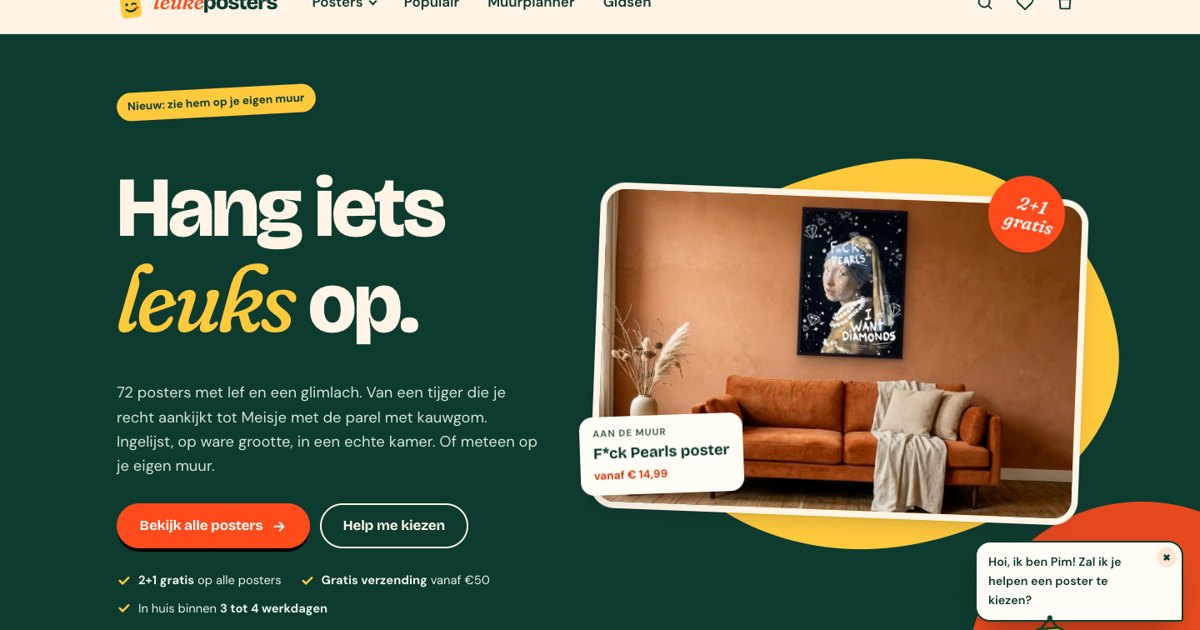
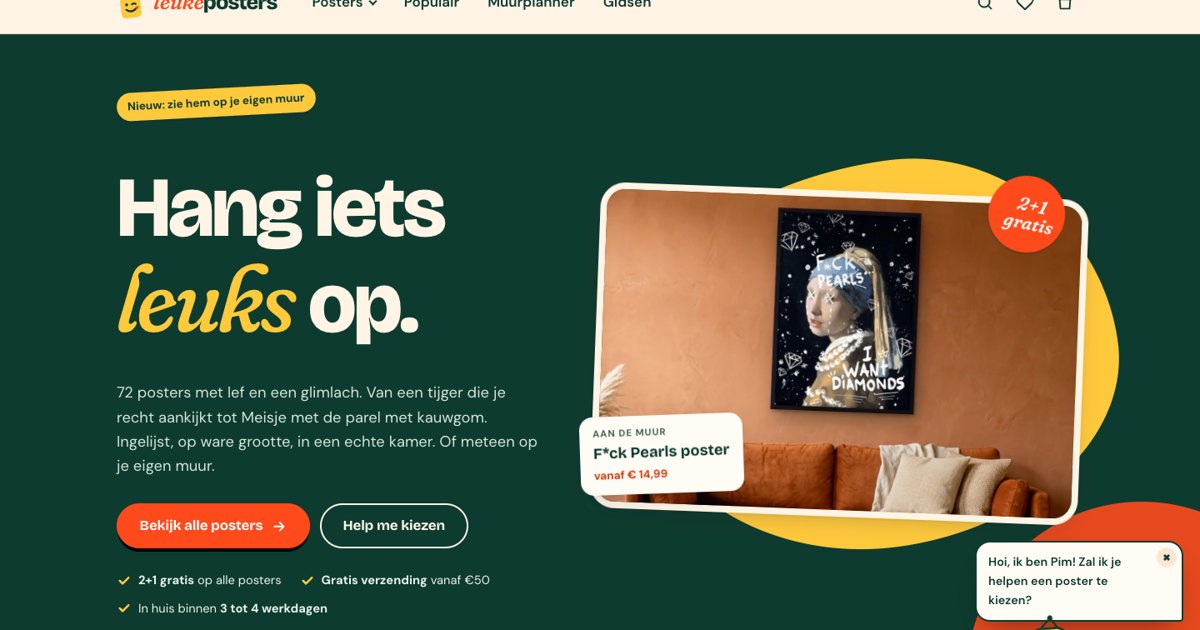
Concepten nieuwe website leukeposters.nl

Changed region(s): [[0.4933, 0.3016, 0.8942, 0.8444]]

diff --git a/abstracte-posters/index.html b/abstracte-posters/index.html
@@ -55,7 +55,7 @@
   <ul class="lijstkop__usps"><li>Vanaf € 14,99</li><li>2+1 gratis</li><li>Ingelijst bekijken op je eigen muur</li></ul></div><div class="lijstkop__beeld"><img class="" src="../img/ingelijst/abstract-portret-poster-woonkamer-640.webp" srcset="../img/ingelijst/abstract-portret-poster-woonkamer-640.webp 640w, ../img/ingelijst/abstract-portret-poster-woonkamer-1264.webp 1264w" sizes="(min-width: 900px) 40vw, 100vw" width="1264" height="848" alt="Abstract portret no. 2 poster in de woonkamer" loading="eager" fetchpriority=high decoding="async"><a class="lijstkop__poster" href="../abstracte-posters/abstract-portret-no-2-poster/index.html" aria-label="Abstract portret poster"><img class="lijst--zwart" src="../img/poster/abstract-portret-no-2-poster-480.webp" srcset="../img/poster/abstract-portret-no-2-poster-480.webp 480w, ../img/poster/abstract-portret-no-2-poster-960.webp 960w" sizes="180px" width="1080" height="1540" alt="Schilderij van een abstract portret met wervelende penseelstreken in blauw en beige tinten." loading="eager" decoding="async"></a></div>
 </div><span class="lijstkop__spook" aria-hidden="true">posters</span>
 <svg class="lijstkop__golf" viewBox="0 0 1440 60" preserveAspectRatio="none" aria-hidden="true"><path d="M0 60V28c120-20 240-26 360-14s240 30 360 22 240-34 360-36 240 12 360 22v38z" fill="var(--papier)"/></svg></section>
-<section class="sectie sectie--krap"><div class="wrap">
+<section class="sectie sectie--krap sectie--speels"><div class="speels speels--links speels--hanger" aria-hidden="true"><svg viewBox="0 0 80 110"><circle cx="40" cy="8" r="5" fill="var(--inkt)"/><path d="M20 34 40 8l20 26" fill="none" stroke="var(--inkt)" stroke-width="2.5" stroke-linejoin="round"/><g class="speels__schommel"><rect x="12" y="30" width="56" height="72" rx="10" fill="var(--tomaat)"/><circle cx="30" cy="58" r="4" fill="var(--papier)"/><path d="M45 58q5-4 10 0" fill="none" stroke="var(--papier)" stroke-width="3.5" stroke-linecap="round"/><path d="M28 74q12 10 24 0" fill="none" stroke="var(--papier)" stroke-width="3.5" stroke-linecap="round"/></g></svg></div><div class="speels speels--rechts speels--veeg" aria-hidden="true"><svg viewBox="0 0 420 120"><path d="M18 78C70 30 170 18 260 34s130 44 150 22" fill="none" stroke="var(--blush)" stroke-width="38" stroke-linecap="round"/><path d="M40 92c60-30 150-40 230-26" fill="none" stroke="var(--blush)" stroke-width="6" stroke-linecap="round" opacity=".6"/><path d="M60 40c50-14 110-16 170-6" fill="none" stroke="var(--blush)" stroke-width="4" stroke-linecap="round" opacity=".5"/></svg></div><div class="wrap">
   <div class="filter" data-filterbalk>
   <div class="filter__top">
     <label class="zoekveld"><span class="sr">Zoek in posters</span><svg viewBox="0 0 24 24" aria-hidden="true"><circle cx="11" cy="11" r="7"/><path d="m20 20-3.5-3.5"/></svg><input type="search" placeholder="Zoek op tijger, koffie, Bauhaus..." data-zoek></label>

diff --git a/populaire-posters/index.html b/populaire-posters/index.html
@@ -55,7 +55,7 @@
   <ul class="lijstkop__usps"><li>Vanaf € 14,99</li><li>2+1 gratis</li><li>Ingelijst bekijken op je eigen muur</li></ul></div><div class="lijstkop__beeld"><img class="" src="../img/ingelijst/tijger-portret-poster-woonkamer-640.webp" srcset="../img/ingelijst/tijger-portret-poster-woonkamer-640.webp 640w, ../img/ingelijst/tijger-portret-poster-woonkamer-1264.webp 1264w" sizes="(min-width: 900px) 40vw, 100vw" width="1264" height="848" alt="Tijger portret poster in de woonkamer" loading="eager" fetchpriority=high decoding="async"><a class="lijstkop__poster" href="../luxe-posters/delfst-blauwe-schedel-poster/index.html" aria-label="Delfts blauwe schedel poster"><img class="lijst--eiken" src="../img/poster/delfst-blauwe-schedel-poster-480.webp" srcset="../img/poster/delfst-blauwe-schedel-poster-480.webp 480w, ../img/poster/delfst-blauwe-schedel-poster-960.webp 960w" sizes="180px" width="1080" height="1540" alt="Witte porseleinen schedel met Delfts blauwe bloemen en gouden details op zwarte achtergrond" loading="eager" decoding="async"></a></div>
 </div><span class="lijstkop__spook" aria-hidden="true">posters</span>
 <svg class="lijstkop__golf" viewBox="0 0 1440 60" preserveAspectRatio="none" aria-hidden="true"><path d="M0 60V28c120-20 240-26 360-14s240 30 360 22 240-34 360-36 240 12 360 22v38z" fill="var(--papier)"/></svg></section>
-<section class="sectie sectie--krap"><div class="wrap">
+<section class="sectie sectie--krap sectie--speels"><div class="speels speels--links speels--hanger" aria-hidden="true"><svg viewBox="0 0 80 110"><circle cx="40" cy="8" r="5" fill="var(--inkt)"/><path d="M20 34 40 8l20 26" fill="none" stroke="var(--inkt)" stroke-width="2.5" stroke-linejoin="round"/><g class="speels__schommel"><rect x="12" y="30" width="56" height="72" rx="10" fill="var(--tomaat)"/><circle cx="30" cy="58" r="4" fill="var(--papier)"/><path d="M45 58q5-4 10 0" fill="none" stroke="var(--papier)" stroke-width="3.5" stroke-linecap="round"/><path d="M28 74q12 10 24 0" fill="none" stroke="var(--papier)" stroke-width="3.5" stroke-linecap="round"/></g></svg></div><div class="speels speels--rechts speels--veeg" aria-hidden="true"><svg viewBox="0 0 420 120"><path d="M18 78C70 30 170 18 260 34s130 44 150 22" fill="none" stroke="var(--blush)" stroke-width="38" stroke-linecap="round"/><path d="M40 92c60-30 150-40 230-26" fill="none" stroke="var(--blush)" stroke-width="6" stroke-linecap="round" opacity=".6"/><path d="M60 40c50-14 110-16 170-6" fill="none" stroke="var(--blush)" stroke-width="4" stroke-linecap="round" opacity=".5"/></svg></div><div class="wrap">
   <div class="filter" data-filterbalk>
   <div class="filter__top">
     <label class="zoekveld"><span class="sr">Zoek in posters</span><svg viewBox="0 0 24 24" aria-hidden="true"><circle cx="11" cy="11" r="7"/><path d="m20 20-3.5-3.5"/></svg><input type="search" placeholder="Zoek op tijger, koffie, Bauhaus..." data-zoek></label>

diff --git a/kunst-posters/index.html b/kunst-posters/index.html
@@ -55,7 +55,7 @@
   <ul class="lijstkop__usps"><li>Vanaf € 14,99</li><li>2+1 gratis</li><li>Ingelijst bekijken op je eigen muur</li></ul></div><div class="lijstkop__beeld"><img class="" src="../img/ingelijst/attuned-poster-slaapkamer-640.webp" srcset="../img/ingelijst/attuned-poster-slaapkamer-640.webp 640w, ../img/ingelijst/attuned-poster-slaapkamer-1264.webp 1264w" sizes="(min-width: 900px) 40vw, 100vw" width="1264" height="848" alt="Attuned kunst poster boven het bed" loading="eager" fetchpriority=high decoding="async"><a class="lijstkop__poster" href="../abstracte-posters/bauhaus-1919-1933-poster/index.html" aria-label="Bauhaus 1919 poster"><img class="lijst--zwart" src="../img/poster/bauhaus-1919-1933-poster-480.webp" srcset="../img/poster/bauhaus-1919-1933-poster-480.webp 480w, ../img/poster/bauhaus-1919-1933-poster-960.webp 960w" sizes="180px" width="1080" height="1540" alt="Bauhaus poster met geometrische figuren in geel, roze en blauw op een lichte achtergrond" loading="eager" decoding="async"></a></div>
 </div><span class="lijstkop__spook" aria-hidden="true">posters</span>
 <svg class="lijstkop__golf" viewBox="0 0 1440 60" preserveAspectRatio="none" aria-hidden="true"><path d="M0 60V28c120-20 240-26 360-14s240 30 360 22 240-34 360-36 240 12 360 22v38z" fill="var(--papier)"/></svg></section>
-<section class="sectie sectie--krap"><div class="wrap">
+<section class="sectie sectie--krap sectie--speels"><div class="speels speels--links speels--hanger" aria-hidden="true"><svg viewBox="0 0 80 110"><circle cx="40" cy="8" r="5" fill="var(--inkt)"/><path d="M20 34 40 8l20 26" fill="none" stroke="var(--inkt)" stroke-width="2.5" stroke-linejoin="round"/><g class="speels__schommel"><rect x="12" y="30" width="56" height="72" rx="10" fill="var(--tomaat)"/><circle cx="30" cy="58" r="4" fill="var(--papier)"/><path d="M45 58q5-4 10 0" fill="none" stroke="var(--papier)" stroke-width="3.5" stroke-linecap="round"/><path d="M28 74q12 10 24 0" fill="none" stroke="var(--papier)" stroke-width="3.5" stroke-linecap="round"/></g></svg></div><div class="speels speels--rechts speels--veeg" aria-hidden="true"><svg viewBox="0 0 420 120"><path d="M18 78C70 30 170 18 260 34s130 44 150 22" fill="none" stroke="var(--blush)" stroke-width="38" stroke-linecap="round"/><path d="M40 92c60-30 150-40 230-26" fill="none" stroke="var(--blush)" stroke-width="6" stroke-linecap="round" opacity=".6"/><path d="M60 40c50-14 110-16 170-6" fill="none" stroke="var(--blush)" stroke-width="4" stroke-linecap="round" opacity=".5"/></svg></div><div class="wrap">
   <div class="filter" data-filterbalk>
   <div class="filter__top">
     <label class="zoekveld"><span class="sr">Zoek in posters</span><svg viewBox="0 0 24 24" aria-hidden="true"><circle cx="11" cy="11" r="7"/><path d="m20 20-3.5-3.5"/></svg><input type="search" placeholder="Zoek op tijger, koffie, Bauhaus..." data-zoek></label>

diff --git a/posters-werkplek/index.html b/posters-werkplek/index.html
@@ -55,7 +55,7 @@
   <ul class="lijstkop__usps"><li>Vanaf € 14,99</li><li>2+1 gratis</li><li>Ingelijst bekijken op je eigen muur</li></ul></div><div class="lijstkop__beeld"><img class="" src="../img/ingelijst/tijger-portret-poster-werkplek-640.webp" srcset="../img/ingelijst/tijger-portret-poster-werkplek-640.webp 640w" sizes="(min-width: 900px) 40vw, 100vw" width="1264" height="848" alt="Tijger portret poster boven het bureau" loading="eager" fetchpriority=high decoding="async"><a class="lijstkop__poster" href="../luxe-posters/delfst-blauwe-schedel-poster/index.html" aria-label="Delfts blauwe schedel poster"><img class="lijst--eiken" src="../img/poster/delfst-blauwe-schedel-poster-480.webp" srcset="../img/poster/delfst-blauwe-schedel-poster-480.webp 480w, ../img/poster/delfst-blauwe-schedel-poster-960.webp 960w" sizes="180px" width="1080" height="1540" alt="Witte porseleinen schedel met Delfts blauwe bloemen en gouden details op zwarte achtergrond" loading="eager" decoding="async"></a></div>
 </div><span class="lijstkop__spook" aria-hidden="true">werkplek</span>
 <svg class="lijstkop__golf" viewBox="0 0 1440 60" preserveAspectRatio="none" aria-hidden="true"><path d="M0 60V28c120-20 240-26 360-14s240 30 360 22 240-34 360-36 240 12 360 22v38z" fill="var(--papier)"/></svg></section>
-<section class="sectie sectie--krap"><div class="wrap">
+<section class="sectie sectie--krap sectie--speels"><div class="speels speels--links speels--hanger" aria-hidden="true"><svg viewBox="0 0 80 110"><circle cx="40" cy="8" r="5" fill="var(--inkt)"/><path d="M20 34 40 8l20 26" fill="none" stroke="var(--inkt)" stroke-width="2.5" stroke-linejoin="round"/><g class="speels__schommel"><rect x="12" y="30" width="56" height="72" rx="10" fill="var(--tomaat)"/><circle cx="30" cy="58" r="4" fill="var(--papier)"/><path d="M45 58q5-4 10 0" fill="none" stroke="var(--papier)" stroke-width="3.5" stroke-linecap="round"/><path d="M28 74q12 10 24 0" fill="none" stroke="var(--papier)" stroke-width="3.5" stroke-linecap="round"/></g></svg></div><div class="speels speels--rechts speels--veeg" aria-hidden="true"><svg viewBox="0 0 420 120"><path d="M18 78C70 30 170 18 260 34s130 44 150 22" fill="none" stroke="var(--blush)" stroke-width="38" stroke-linecap="round"/><path d="M40 92c60-30 150-40 230-26" fill="none" stroke="var(--blush)" stroke-width="6" stroke-linecap="round" opacity=".6"/><path d="M60 40c50-14 110-16 170-6" fill="none" stroke="var(--blush)" stroke-width="4" stroke-linecap="round" opacity=".5"/></svg></div><div class="wrap">
   <div class="filter" data-filterbalk>
   <div class="filter__top">
     <label class="zoekveld"><span class="sr">Zoek in posters</span><svg viewBox="0 0 24 24" aria-hidden="true"><circle cx="11" cy="11" r="7"/><path d="m20 20-3.5-3.5"/></svg><input type="search" placeholder="Zoek op tijger, koffie, Bauhaus..." data-zoek></label>

diff --git a/posters-kinderkamer/index.html b/posters-kinderkamer/index.html
@@ -55,7 +55,7 @@
   <ul class="lijstkop__usps"><li>Vanaf € 14,99</li><li>2+1 gratis</li><li>Ingelijst bekijken op je eigen muur</li></ul></div><div class="lijstkop__beeld"><img class="" src="../img/ingelijst/alfabet-a-poster-kinderkamer-640.webp" srcset="../img/ingelijst/alfabet-a-poster-kinderkamer-640.webp 640w, ../img/ingelijst/alfabet-a-poster-kinderkamer-1264.webp 1264w" sizes="(min-width: 900px) 40vw, 100vw" width="1264" height="848" alt="Alfabet A aap poster in de kinderkamer" loading="eager" fetchpriority=high decoding="async"><a class="lijstkop__poster" href="../kinderposters/alfabet-d-poster/index.html" aria-label="Alfabet D dino poster"><img class="lijst--eiken" src="../img/poster/alfabet-d-poster-480.webp" srcset="../img/poster/alfabet-d-poster-480.webp 480w, ../img/poster/alfabet-d-poster-960.webp 960w" sizes="180px" width="1080" height="1540" alt="Illustratie van de letter D in poederroze met een kleine groene dinosaurus." loading="eager" decoding="async"></a></div>
 </div><span class="lijstkop__spook" aria-hidden="true">kinderkamer</span>
 <svg class="lijstkop__golf" viewBox="0 0 1440 60" preserveAspectRatio="none" aria-hidden="true"><path d="M0 60V28c120-20 240-26 360-14s240 30 360 22 240-34 360-36 240 12 360 22v38z" fill="var(--papier)"/></svg></section>
-<section class="sectie sectie--krap"><div class="wrap">
+<section class="sectie sectie--krap sectie--speels"><div class="speels speels--links speels--hanger" aria-hidden="true"><svg viewBox="0 0 80 110"><circle cx="40" cy="8" r="5" fill="var(--inkt)"/><path d="M20 34 40 8l20 26" fill="none" stroke="var(--inkt)" stroke-width="2.5" stroke-linejoin="round"/><g class="speels__schommel"><rect x="12" y="30" width="56" height="72" rx="10" fill="var(--tomaat)"/><circle cx="30" cy="58" r="4" fill="var(--papier)"/><path d="M45 58q5-4 10 0" fill="none" stroke="var(--papier)" stroke-width="3.5" stroke-linecap="round"/><path d="M28 74q12 10 24 0" fill="none" stroke="var(--papier)" stroke-width="3.5" stroke-linecap="round"/></g></svg></div><div class="speels speels--rechts speels--veeg" aria-hidden="true"><svg viewBox="0 0 420 120"><path d="M18 78C70 30 170 18 260 34s130 44 150 22" fill="none" stroke="var(--blush)" stroke-width="38" stroke-linecap="round"/><path d="M40 92c60-30 150-40 230-26" fill="none" stroke="var(--blush)" stroke-width="6" stroke-linecap="round" opacity=".6"/><path d="M60 40c50-14 110-16 170-6" fill="none" stroke="var(--blush)" stroke-width="4" stroke-linecap="round" opacity=".5"/></svg></div><div class="wrap">
   <div class="filter" data-filterbalk>
   <div class="filter__top">
     <label class="zoekveld"><span class="sr">Zoek in posters</span><svg viewBox="0 0 24 24" aria-hidden="true"><circle cx="11" cy="11" r="7"/><path d="m20 20-3.5-3.5"/></svg><input type="search" placeholder="Zoek op tijger, koffie, Bauhaus..." data-zoek></label>

diff --git a/posters-hal/index.html b/posters-hal/index.html
@@ -55,7 +55,7 @@
   <ul class="lijstkop__usps"><li>Vanaf € 14,99</li><li>2+1 gratis</li><li>Ingelijst bekijken op je eigen muur</li></ul></div><div class="lijstkop__beeld"><img class="" src="../img/ingelijst/fck-pearls-poster-hal-640.webp" srcset="../img/ingelijst/fck-pearls-poster-hal-640.webp 640w" sizes="(min-width: 900px) 40vw, 100vw" width="1264" height="848" alt="F*ck Pearls poster in de hal" loading="eager" fetchpriority=high decoding="async"><a class="lijstkop__poster" href="../reproductie-poster/meisje-met-de-parel-bubblegum-poster/index.html" aria-label="Meisje met kauwgom poster"><img class="lijst--eiken" src="../img/poster/meisje-met-de-parel-bubblegum-poster-480.webp" srcset="../img/poster/meisje-met-de-parel-bubblegum-poster-480.webp 480w, ../img/poster/meisje-met-de-parel-bubblegum-poster-960.webp 960w" sizes="180px" width="1080" height="1540" alt="Schilderij Meisje met de parel van Vermeer die een roze kauwgombel blaast." loading="eager" decoding="async"></a></div>
 </div><span class="lijstkop__spook" aria-hidden="true">hal</span>
 <svg class="lijstkop__golf" viewBox="0 0 1440 60" preserveAspectRatio="none" aria-hidden="true"><path d="M0 60V28c120-20 240-26 360-14s240 30 360 22 240-34 360-36 240 12 360 22v38z" fill="var(--papier)"/></svg></section>
-<section class="sectie sectie--krap"><div class="wrap">
+<section class="sectie sectie--krap sectie--speels"><div class="speels speels--links speels--hanger" aria-hidden="true"><svg viewBox="0 0 80 110"><circle cx="40" cy="8" r="5" fill="var(--inkt)"/><path d="M20 34 40 8l20 26" fill="none" stroke="var(--inkt)" stroke-width="2.5" stroke-linejoin="round"/><g class="speels__schommel"><rect x="12" y="30" width="56" height="72" rx="10" fill="var(--tomaat)"/><circle cx="30" cy="58" r="4" fill="var(--papier)"/><path d="M45 58q5-4 10 0" fill="none" stroke="var(--papier)" stroke-width="3.5" stroke-linecap="round"/><path d="M28 74q12 10 24 0" fill="none" stroke="var(--papier)" stroke-width="3.5" stroke-linecap="round"/></g></svg></div><div class="speels speels--rechts speels--veeg" aria-hidden="true"><svg viewBox="0 0 420 120"><path d="M18 78C70 30 170 18 260 34s130 44 150 22" fill="none" stroke="var(--blush)" stroke-width="38" stroke-linecap="round"/><path d="M40 92c60-30 150-40 230-26" fill="none" stroke="var(--blush)" stroke-width="6" stroke-linecap="round" opacity=".6"/><path d="M60 40c50-14 110-16 170-6" fill="none" stroke="var(--blush)" stroke-width="4" stroke-linecap="round" opacity=".5"/></svg></div><div class="wrap">
   <div class="filter" data-filterbalk>
   <div class="filter__top">
     <label class="zoekveld"><span class="sr">Zoek in posters</span><svg viewBox="0 0 24 24" aria-hidden="true"><circle cx="11" cy="11" r="7"/><path d="m20 20-3.5-3.5"/></svg><input type="search" placeholder="Zoek op tijger, koffie, Bauhaus..." data-zoek></label>

diff --git a/posters-slaapkamer/index.html b/posters-slaapkamer/index.html
@@ -55,7 +55,7 @@
   <ul class="lijstkop__usps"><li>Vanaf € 14,99</li><li>2+1 gratis</li><li>Ingelijst bekijken op je eigen muur</li></ul></div><div class="lijstkop__beeld"><img class="" src="../img/ingelijst/beautiful-girl-poster-slaapkamer-640.webp" srcset="../img/ingelijst/beautiful-girl-poster-slaapkamer-640.webp 640w" sizes="(min-width: 900px) 40vw, 100vw" width="1264" height="848" alt="Beautiful girl stilleven poster boven het bed" loading="eager" fetchpriority=high decoding="async"><a class="lijstkop__poster" href="../dieren-posters/paradijs-vogel-poster/index.html" aria-label="Paradijsvogel poster"><img class="lijst--eiken" src="../img/poster/paradijs-vogel-poster-480.webp" srcset="../img/poster/paradijs-vogel-poster-480.webp 480w, ../img/poster/paradijs-vogel-poster-960.webp 960w" sizes="180px" width="1080" height="1540" alt="Gedetailleerd portret van een paradijsvogel met feloranje kuif tegen een zwarte achtergrond" loading="eager" decoding="async"></a></div>
 </div><span class="lijstkop__spook" aria-hidden="true">slaapkamer</span>
 <svg class="lijstkop__golf" viewBox="0 0 1440 60" preserveAspectRatio="none" aria-hidden="true"><path d="M0 60V28c120-20 240-26 360-14s240 30 360 22 240-34 360-36 240 12 360 22v38z" fill="var(--papier)"/></svg></section>
-<section class="sectie sectie--krap"><div class="wrap">
+<section class="sectie sectie--krap sectie--speels"><div class="speels speels--links speels--hanger" aria-hidden="true"><svg viewBox="0 0 80 110"><circle cx="40" cy="8" r="5" fill="var(--inkt)"/><path d="M20 34 40 8l20 26" fill="none" stroke="var(--inkt)" stroke-width="2.5" stroke-linejoin="round"/><g class="speels__schommel"><rect x="12" y="30" width="56" height="72" rx="10" fill="var(--tomaat)"/><circle cx="30" cy="58" r="4" fill="var(--papier)"/><path d="M45 58q5-4 10 0" fill="none" stroke="var(--papier)" stroke-width="3.5" stroke-linecap="round"/><path d="M28 74q12 10 24 0" fill="none" stroke="var(--papier)" stroke-width="3.5" stroke-linecap="round"/></g></svg></div><div class="speels speels--rechts speels--veeg" aria-hidden="true"><svg viewBox="0 0 420 120"><path d="M18 78C70 30 170 18 260 34s130 44 150 22" fill="none" stroke="var(--blush)" stroke-width="38" stroke-linecap="round"/><path d="M40 92c60-30 150-40 230-26" fill="none" stroke="var(--blush)" stroke-width="6" stroke-linecap="round" opacity=".6"/><path d="M60 40c50-14 110-16 170-6" fill="none" stroke="var(--blush)" stroke-width="4" stroke-linecap="round" opacity=".5"/></svg></div><div class="wrap">
   <div class="filter" data-filterbalk>
   <div class="filter__top">
     <label class="zoekveld"><span class="sr">Zoek in posters</span><svg viewBox="0 0 24 24" aria-hidden="true"><circle cx="11" cy="11" r="7"/><path d="m20 20-3.5-3.5"/></svg><input type="search" placeholder="Zoek op tijger, koffie, Bauhaus..." data-zoek></label>

diff --git a/posters-woonkamer/index.html b/posters-woonkamer/index.html
@@ -55,7 +55,7 @@
   <ul class="lijstkop__usps"><li>Vanaf € 14,99</li><li>2+1 gratis</li><li>Ingelijst bekijken op je eigen muur</li></ul></div><div class="lijstkop__beeld"><img class="" src="../img/ingelijst/tijger-portret-poster-woonkamer-640.webp" srcset="../img/ingelijst/tijger-portret-poster-woonkamer-640.webp 640w, ../img/ingelijst/tijger-portret-poster-woonkamer-1264.webp 1264w" sizes="(min-width: 900px) 40vw, 100vw" width="1264" height="848" alt="Tijger portret poster in de woonkamer" loading="eager" fetchpriority=high decoding="async"><a class="lijstkop__poster" href="../luxe-posters/delfst-blauwe-schedel-poster/index.html" aria-label="Delfts blauwe schedel poster"><img class="lijst--eiken" src="../img/poster/delfst-blauwe-schedel-poster-480.webp" srcset="../img/poster/delfst-blauwe-schedel-poster-480.webp 480w, ../img/poster/delfst-blauwe-schedel-poster-960.webp 960w" sizes="180px" width="1080" height="1540" alt="Witte porseleinen schedel met Delfts blauwe bloemen en gouden details op zwarte achtergrond" loading="eager" decoding="async"></a></div>
 </div><span class="lijstkop__spook" aria-hidden="true">woonkamer</span>
 <svg class="lijstkop__golf" viewBox="0 0 1440 60" preserveAspectRatio="none" aria-hidden="true"><path d="M0 60V28c120-20 240-26 360-14s240 30 360 22 240-34 360-36 240 12 360 22v38z" fill="var(--papier)"/></svg></section>
-<section class="sectie sectie--krap"><div class="wrap">
+<section class="sectie sectie--krap sectie--speels"><div class="speels speels--links speels--hanger" aria-hidden="true"><svg viewBox="0 0 80 110"><circle cx="40" cy="8" r="5" fill="var(--inkt)"/><path d="M20 34 40 8l20 26" fill="none" stroke="var(--inkt)" stroke-width="2.5" stroke-linejoin="round"/><g class="speels__schommel"><rect x="12" y="30" width="56" height="72" rx="10" fill="var(--tomaat)"/><circle cx="30" cy="58" r="4" fill="var(--papier)"/><path d="M45 58q5-4 10 0" fill="none" stroke="var(--papier)" stroke-width="3.5" stroke-linecap="round"/><path d="M28 74q12 10 24 0" fill="none" stroke="var(--papier)" stroke-width="3.5" stroke-linecap="round"/></g></svg></div><div class="speels speels--rechts speels--krul" aria-hidden="true"><svg viewBox="0 0 120 420"><path d="M60 8c40 30-40 60 0 90s-40 60 0 90 40 60 0 90-40 60 0 90 40 30 10 50" fill="none" stroke="var(--salie)" stroke-width="14" stroke-linecap="round"/></svg></div><div class="wrap">
   <div class="filter" data-filterbalk>
   <div class="filter__top">
     <label class="zoekveld"><span class="sr">Zoek in posters</span><svg viewBox="0 0 24 24" aria-hidden="true"><circle cx="11" cy="11" r="7"/><path d="m20 20-3.5-3.5"/></svg><input type="search" placeholder="Zoek op tijger, koffie, Bauhaus..." data-zoek></label>

diff --git a/reproductie-poster/index.html b/reproductie-poster/index.html
@@ -55,7 +55,7 @@
   <ul class="lijstkop__usps"><li>Vanaf € 14,99</li><li>2+1 gratis</li><li>Ingelijst bekijken op je eigen muur</li></ul></div><div class="lijstkop__beeld"><img class="" src="../img/ingelijst/fck-pearls-poster-woonkamer-640.webp" srcset="../img/ingelijst/fck-pearls-poster-woonkamer-640.webp 640w, ../img/ingelijst/fck-pearls-poster-woonkamer-1264.webp 1264w" sizes="(min-width: 900px) 40vw, 100vw" width="1264" height="848" alt="F*ck Pearls poster in de woonkamer" loading="eager" fetchpriority=high decoding="async"><a class="lijstkop__poster" href="../reproductie-poster/meisje-met-de-parel-bubblegum-poster/index.html" aria-label="Meisje met kauwgom poster"><img class="lijst--eiken" src="../img/poster/meisje-met-de-parel-bubblegum-poster-480.webp" srcset="../img/poster/meisje-met-de-parel-bubblegum-poster-480.webp 480w, ../img/poster/meisje-met-de-parel-bubblegum-poster-960.webp 960w" sizes="180px" width="1080" height="1540" alt="Schilderij Meisje met de parel van Vermeer die een roze kauwgombel blaast." loading="eager" decoding="async"></a></div>
 </div><span class="lijstkop__spook" aria-hidden="true">twist</span>
 <svg class="lijstkop__golf" viewBox="0 0 1440 60" preserveAspectRatio="none" aria-hidden="true"><path d="M0 60V28c120-20 240-26 360-14s240 30 360 22 240-34 360-36 240 12 360 22v38z" fill="var(--papier)"/></svg></section>
-<section class="sectie sectie--krap"><div class="wrap">
+<section class="sectie sectie--krap sectie--speels"><div class="speels speels--links speels--hanger" aria-hidden="true"><svg viewBox="0 0 80 110"><circle cx="40" cy="8" r="5" fill="var(--inkt)"/><path d="M20 34 40 8l20 26" fill="none" stroke="var(--inkt)" stroke-width="2.5" stroke-linejoin="round"/><g class="speels__schommel"><rect x="12" y="30" width="56" height="72" rx="10" fill="var(--tomaat)"/><circle cx="30" cy="58" r="4" fill="var(--papier)"/><path d="M45 58q5-4 10 0" fill="none" stroke="var(--papier)" stroke-width="3.5" stroke-linecap="round"/><path d="M28 74q12 10 24 0" fill="none" stroke="var(--papier)" stroke-width="3.5" stroke-linecap="round"/></g></svg></div><div class="speels speels--rechts speels--krul" aria-hidden="true"><svg viewBox="0 0 120 420"><path d="M60 8c40 30-40 60 0 90s-40 60 0 90 40 60 0 90-40 60 0 90 40 30 10 50" fill="none" stroke="var(--salie)" stroke-width="14" stroke-linecap="round"/></svg></div><div class="wrap">
   <div class="filter" data-filterbalk>
   <div class="filter__top">
     <label class="zoekveld"><span class="sr">Zoek in posters</span><svg viewBox="0 0 24 24" aria-hidden="true"><circle cx="11" cy="11" r="7"/><path d="m20 20-3.5-3.5"/></svg><input type="search" placeholder="Zoek op tijger, koffie, Bauhaus..." data-zoek></label>

diff --git a/keuken-posters/index.html b/keuken-posters/index.html
@@ -55,7 +55,7 @@
   <ul class="lijstkop__usps"><li>Vanaf € 14,99</li><li>2+1 gratis</li><li>Ingelijst bekijken op je eigen muur</li></ul></div><div class="lijstkop__beeld"><img class="" src="../img/ingelijst/avocado-crush-on-you-poster-keuken-640.webp" srcset="../img/ingelijst/avocado-crush-on-you-poster-keuken-640.webp 640w, ../img/ingelijst/avocado-crush-on-you-poster-keuken-1264.webp 1264w" sizes="(min-width: 900px) 40vw, 100vw" width="1264" height="848" alt="Avocado Crush poster boven de eettafel" loading="eager" fetchpriority=high decoding="async"><a class="lijstkop__poster" href="../keuken-posters/avocado-illustratie-poster/index.html" aria-label="Avocado illustratie poster"><img class="lijst--zwart" src="../img/poster/avocado-illustratie-poster-480.webp" srcset="../img/poster/avocado-illustratie-poster-480.webp 480w, ../img/poster/avocado-illustratie-poster-960.webp 960w" sizes="180px" width="1080" height="1540" alt="Aquarel van een hele en halve avocado met de tekst avocado crush on you" loading="eager" decoding="async"></a></div>
 </div><span class="lijstkop__spook" aria-hidden="true">posters</span>
 <svg class="lijstkop__golf" viewBox="0 0 1440 60" preserveAspectRatio="none" aria-hidden="true"><path d="M0 60V28c120-20 240-26 360-14s240 30 360 22 240-34 360-36 240 12 360 22v38z" fill="var(--papier)"/></svg></section>
-<section class="sectie sectie--krap"><div class="wrap">
+<section class="sectie sectie--krap sectie--speels"><div class="speels speels--links speels--hanger" aria-hidden="true"><svg viewBox="0 0 80 110"><circle cx="40" cy="8" r="5" fill="var(--inkt)"/><path d="M20 34 40 8l20 26" fill="none" stroke="var(--inkt)" stroke-width="2.5" stroke-linejoin="round"/><g class="speels__schommel"><rect x="12" y="30" width="56" height="72" rx="10" fill="var(--tomaat)"/><circle cx="30" cy="58" r="4" fill="var(--papier)"/><path d="M45 58q5-4 10 0" fill="none" stroke="var(--papier)" stroke-width="3.5" stroke-linecap="round"/><path d="M28 74q12 10 24 0" fill="none" stroke="var(--papier)" stroke-width="3.5" stroke-linecap="round"/></g></svg></div><div class="speels speels--rechts speels--krul" aria-hidden="true"><svg viewBox="0 0 120 420"><path d="M60 8c40 30-40 60 0 90s-40 60 0 90 40 60 0 90-40 60 0 90 40 30 10 50" fill="none" stroke="var(--salie)" stroke-width="14" stroke-linecap="round"/></svg></div><div class="wrap">
   <div class="filter" data-filterbalk>
   <div class="filter__top">
     <label class="zoekveld"><span class="sr">Zoek in posters</span><svg viewBox="0 0 24 24" aria-hidden="true"><circle cx="11" cy="11" r="7"/><path d="m20 20-3.5-3.5"/></svg><input type="search" placeholder="Zoek op tijger, koffie, Bauhaus..." data-zoek></label>

diff --git a/dieren-posters/index.html b/dieren-posters/index.html
@@ -55,7 +55,7 @@
   <ul class="lijstkop__usps"><li>Vanaf € 14,99</li><li>2+1 gratis</li><li>Ingelijst bekijken op je eigen muur</li></ul></div><div class="lijstkop__beeld"><img class="" src="../img/ingelijst/tijger-portret-poster-woonkamer-640.webp" srcset="../img/ingelijst/tijger-portret-poster-woonkamer-640.webp 640w, ../img/ingelijst/tijger-portret-poster-woonkamer-1264.webp 1264w" sizes="(min-width: 900px) 40vw, 100vw" width="1264" height="848" alt="Tijger portret poster in de woonkamer" loading="eager" fetchpriority=high decoding="async"><a class="lijstkop__poster" href="../dieren-posters/paradijs-vogel-poster/index.html" aria-label="Paradijsvogel poster"><img class="lijst--eiken" src="../img/poster/paradijs-vogel-poster-480.webp" srcset="../img/poster/paradijs-vogel-poster-480.webp 480w, ../img/poster/paradijs-vogel-poster-960.webp 960w" sizes="180px" width="1080" height="1540" alt="Gedetailleerd portret van een paradijsvogel met feloranje kuif tegen een zwarte achtergrond" loading="eager" decoding="async"></a></div>
 </div><span class="lijstkop__spook" aria-hidden="true">Dierenposters</span>
 <svg class="lijstkop__golf" viewBox="0 0 1440 60" preserveAspectRatio="none" aria-hidden="true"><path d="M0 60V28c120-20 240-26 360-14s240 30 360 22 240-34 360-36 240 12 360 22v38z" fill="var(--papier)"/></svg></section>
-<section class="sectie sectie--krap"><div class="wrap">
+<section class="sectie sectie--krap sectie--speels"><div class="speels speels--links speels--hanger" aria-hidden="true"><svg viewBox="0 0 80 110"><circle cx="40" cy="8" r="5" fill="var(--inkt)"/><path d="M20 34 40 8l20 26" fill="none" stroke="var(--inkt)" stroke-width="2.5" stroke-linejoin="round"/><g class="speels__schommel"><rect x="12" y="30" width="56" height="72" rx="10" fill="var(--tomaat)"/><circle cx="30" cy="58" r="4" fill="var(--papier)"/><path d="M45 58q5-4 10 0" fill="none" stroke="var(--papier)" stroke-width="3.5" stroke-linecap="round"/><path d="M28 74q12 10 24 0" fill="none" stroke="var(--papier)" stroke-width="3.5" stroke-linecap="round"/></g></svg></div><div class="speels speels--rechts speels--krul" aria-hidden="true"><svg viewBox="0 0 120 420"><path d="M60 8c40 30-40 60 0 90s-40 60 0 90 40 60 0 90-40 60 0 90 40 30 10 50" fill="none" stroke="var(--salie)" stroke-width="14" stroke-linecap="round"/></svg></div><div class="wrap">
   <div class="filter" data-filterbalk>
   <div class="filter__top">
     <label class="zoekveld"><span class="sr">Zoek in posters</span><svg viewBox="0 0 24 24" aria-hidden="true"><circle cx="11" cy="11" r="7"/><path d="m20 20-3.5-3.5"/></svg><input type="search" placeholder="Zoek op tijger, koffie, Bauhaus..." data-zoek></label>

diff --git a/valentijn-posters/index.html b/valentijn-posters/index.html
@@ -55,7 +55,7 @@
   <ul class="lijstkop__usps"><li>Vanaf € 14,99</li><li>2+1 gratis</li><li>Ingelijst bekijken op je eigen muur</li></ul></div><div class="lijstkop__beeld"><img class="" src="../img/ingelijst/fck-milk-poster-keuken-640.webp" srcset="../img/ingelijst/fck-milk-poster-keuken-640.webp 640w, ../img/ingelijst/fck-milk-poster-keuken-1264.webp 1264w" sizes="(min-width: 900px) 40vw, 100vw" width="1264" height="848" alt="F*ck Milk poster boven de eettafel" loading="eager" fetchpriority=high decoding="async"><a class="lijstkop__poster" href="../reproductie-poster/shine-bright-poster/index.html" aria-label="Shine Bright bloemen poster"><img class="lijst--eiken" src="../img/poster/shine-bright-poster-480.webp" srcset="../img/poster/shine-bright-poster-480.webp 480w, ../img/poster/shine-bright-poster-960.webp 960w" sizes="180px" width="1080" height="1540" alt="Klassiek donker bloemstilleven met daaroverheen de tekst Shine bright in gele neonletters" loading="eager" decoding="async"></a></div>
 </div><span class="lijstkop__spook" aria-hidden="true">liefde</span>
 <svg class="lijstkop__golf" viewBox="0 0 1440 60" preserveAspectRatio="none" aria-hidden="true"><path d="M0 60V28c120-20 240-26 360-14s240 30 360 22 240-34 360-36 240 12 360 22v38z" fill="var(--papier)"/></svg></section>
-<section class="sectie sectie--krap"><div class="wrap">
+<section class="sectie sectie--krap sectie--speels"><div class="speels speels--links speels--hanger" aria-hidden="true"><svg viewBox="0 0 80 110"><circle cx="40" cy="8" r="5" fill="var(--inkt)"/><path d="M20 34 40 8l20 26" fill="none" stroke="var(--inkt)" stroke-width="2.5" stroke-linejoin="round"/><g class="speels__schommel"><rect x="12" y="30" width="56" height="72" rx="10" fill="var(--tomaat)"/><circle cx="30" cy="58" r="4" fill="var(--papier)"/><path d="M45 58q5-4 10 0" fill="none" stroke="var(--papier)" stroke-width="3.5" stroke-linecap="round"/><path d="M28 74q12 10 24 0" fill="none" stroke="var(--papier)" stroke-width="3.5" stroke-linecap="round"/></g></svg></div><div class="speels speels--rechts speels--krul" aria-hidden="true"><svg viewBox="0 0 120 420"><path d="M60 8c40 30-40 60 0 90s-40 60 0 90 40 60 0 90-40 60 0 90 40 30 10 50" fill="none" stroke="var(--salie)" stroke-width="14" stroke-linecap="round"/></svg></div><div class="wrap">
   <div class="filter" data-filterbalk>
   <div class="filter__top">
     <label class="zoekveld"><span class="sr">Zoek in posters</span><svg viewBox="0 0 24 24" aria-hidden="true"><circle cx="11" cy="11" r="7"/><path d="m20 20-3.5-3.5"/></svg><input type="search" placeholder="Zoek op tijger, koffie, Bauhaus..." data-zoek></label>
